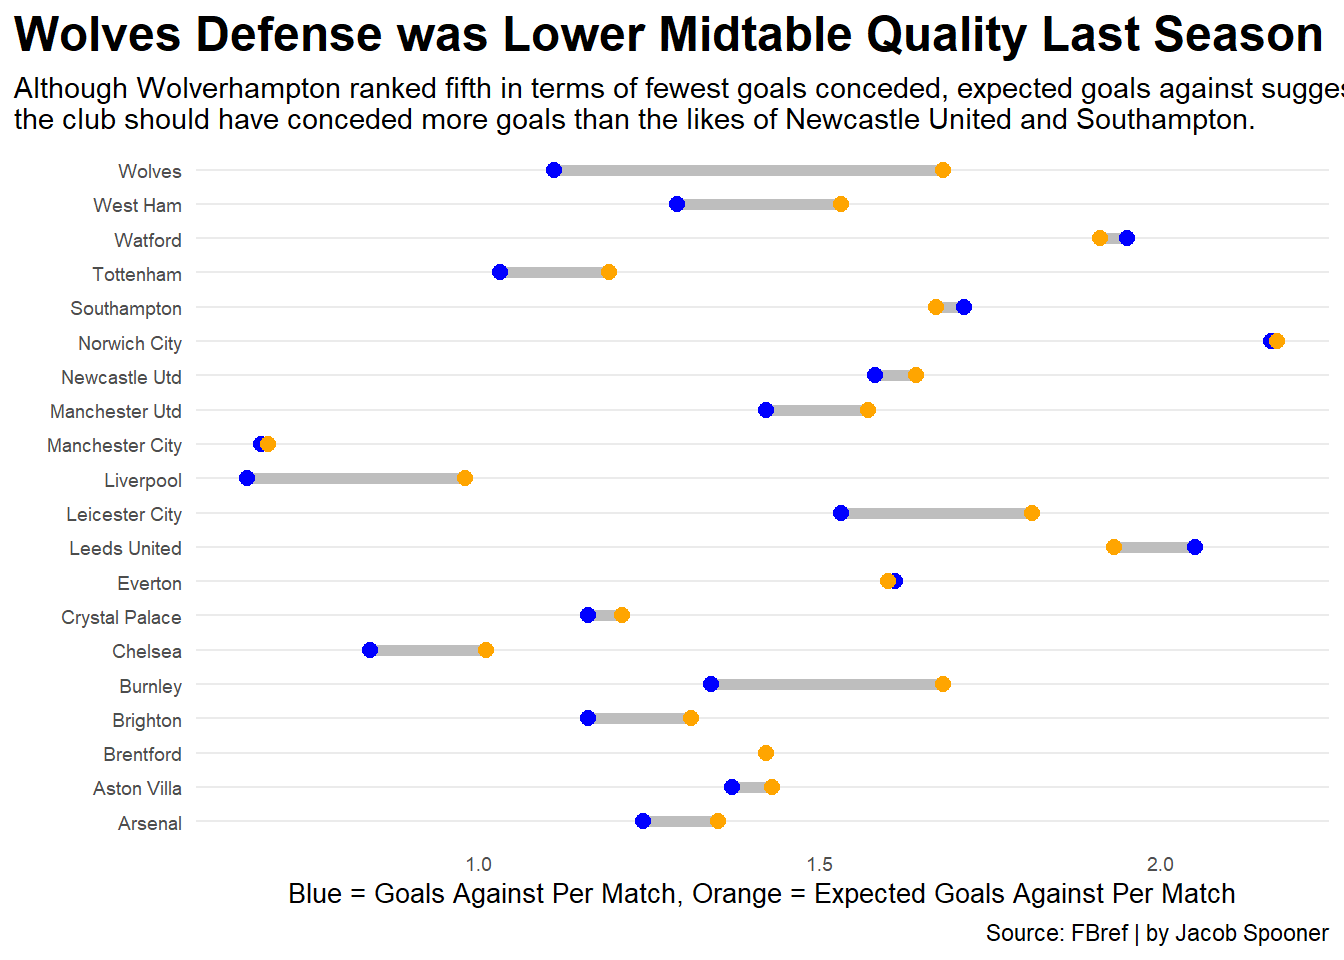
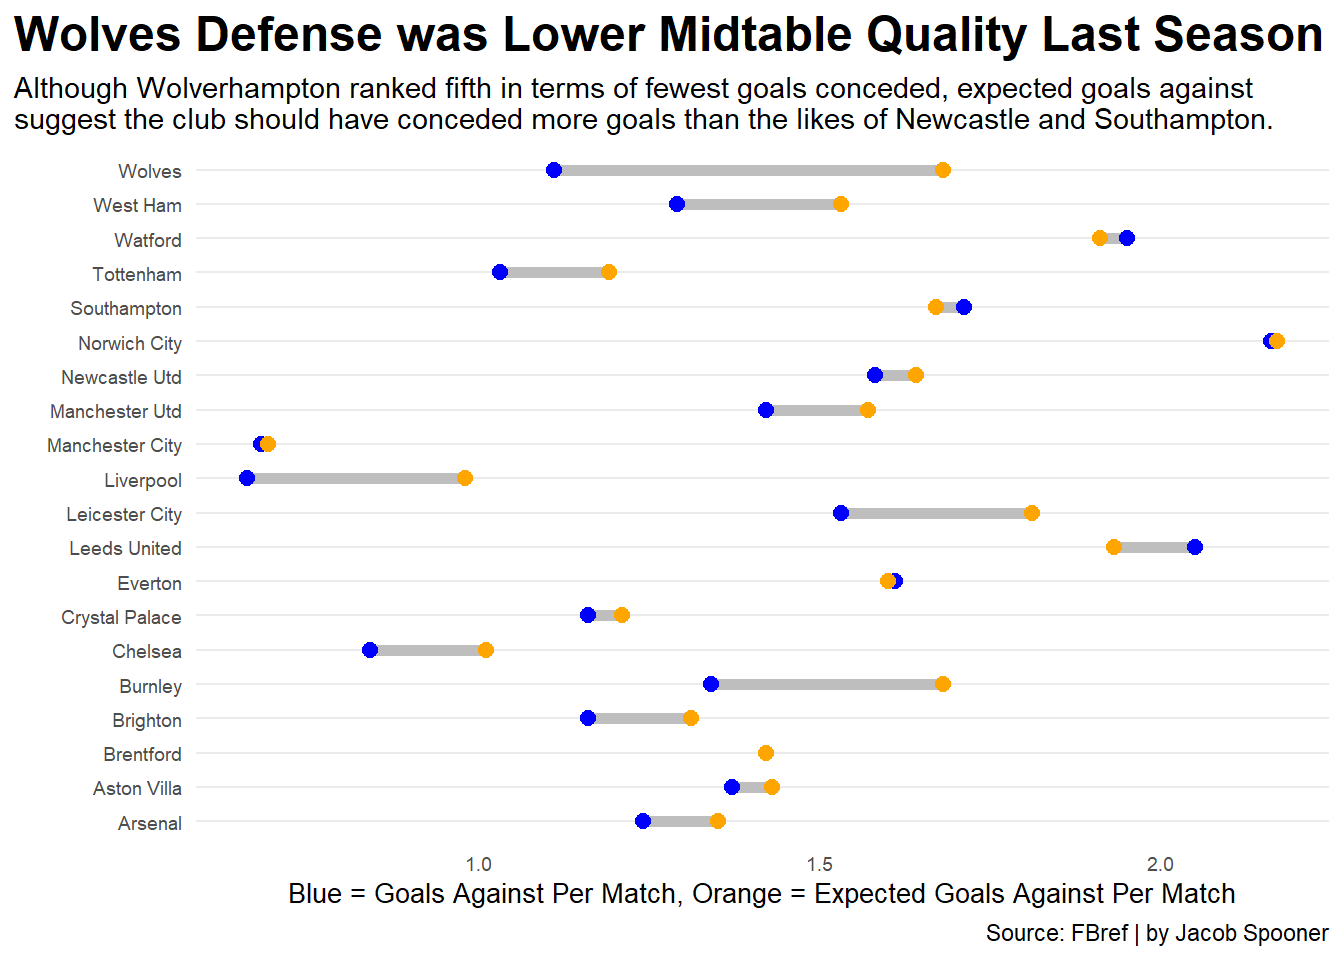
b

Changed region(s): [[0.0, 0.0625, 1.0, 0.1562]]

diff --git a/posts/wolves-recent-defensive-struggles/index.html b/posts/wolves-recent-defensive-struggles/index.html
@@ -210,7 +210,7 @@ code span.wa { color: #60a0b0; font-weight: bold; font-style: italic; } /* Warni
 <p>Following a rather average and disappointing first season under such ownership, Wolverhampton turned a corner in year two. The club finished top of the English Championship League (2nd division) and achieved promotion to the Premier League. Once there, Wolves took the league by storm. Successive seventh place finishes in 2018-19 and 2019-20 firmly established Wolves as a force to be reckoned with in the top flight. Unfortunately, that summer of 2020 would be as good as it got.</p>
 <p>Plagued by numerous injuries and inadequately replacing a couple of key players who moved on to bigger clubs, Wolves limped to a 13th place finish in 2020-21. A change in management followed, and although Wolves managed a 10th place finish last season, the lack of form during the season’s concluding months was among the worst in the league.</p>
 <p>Fast forward to the present day, and Wolverhampton Wanderers finds itself propping up the table 15 matches into the current campaign. The lack of options up top is quite astounding, and this team is allergic to scoring goals. This problem is not new, however, as even those sides that finished seventh struggled to score (although not nearly to the same extent as the team this season).</p>
-<p>Undoubtedly, shyness in front of goal is a problem that is crippling this team. But what about this side’s performance in terms of conceding goals? At its peak under Fosun’s ownership, Wolverhampton was a tough team to break down. Sadly, that defensive solidity seems to have vanished, which, in tandem with the goals scoring issues, has put this club in a far from ideal state. How does Wolves current team compare defensively to those of the past five seasons? And what can we expect from a defensive standpoint moving forward under the recently appointed Julen Lopetegui?</p>
+<p>Undoubtedly, shyness in front of goal is a problem that is crippling this team. But what about this side’s performance in terms of conceding goals? At its peak under Fosun’s ownership, Wolverhampton was a tough team to break down. Sadly, that defensive solidity seems to have vanished, which, in tandem with the goal scoring issues, has put this club in a far from ideal state. How does Wolves current team compare defensively to those of the past five seasons? And what can we expect from a defensive standpoint moving forward under the recently appointed Julen Lopetegui?</p>
 <p>One way of addressing the former of these questions is by examining not only goals against, but also expected goals against (number of goals a team should concede based on a mathematical model that takes various factors into account). Essentially, this allows one to draw conclusions about defensive performance based on the difference between a team’s goals against and expected against. So how do the last five Wolverhampton Wanderers seasons compare in terms of these metrics?</p>
 <div class="cell">
 <details>
@@ -268,12 +268,12 @@ code span.wa { color: #60a0b0; font-weight: bold; font-style: italic; } /* Warni
 </details>
 <div class="cell-output-display">
 
-<div id="pympdujcxc" style="overflow-x:auto;overflow-y:auto;width:auto;height:auto;">
+<div id="krzlfgeina" style="overflow-x:auto;overflow-y:auto;width:auto;height:auto;">
 <style>html {
   font-family: -apple-system, BlinkMacSystemFont, 'Segoe UI', Roboto, Oxygen, Ubuntu, Cantarell, 'Helvetica Neue', 'Fira Sans', 'Droid Sans', Arial, sans-serif;
 }
 
-:where(#pympdujcxc) .gt_table {
+:where(#krzlfgeina) .gt_table {
   display: table;
   border-collapse: collapse;
   margin-left: auto;
@@ -298,7 +298,7 @@ code span.wa { color: #60a0b0; font-weight: bold; font-style: italic; } /* Warni
   border-left-color: #D3D3D3;
 }
 
-:where(#pympdujcxc) .gt_heading {
+:where(#krzlfgeina) .gt_heading {
   background-color: #FFFFFF;
   text-align: center;
   border-bottom-color: #FFFFFF;
@@ -310,7 +310,7 @@ code span.wa { color: #60a0b0; font-weight: bold; font-style: italic; } /* Warni
   border-right-color: #D3D3D3;
 }
 
-:where(#pympdujcxc) .gt_title {
+:where(#krzlfgeina) .gt_title {
   color: #333333;
   font-size: 125%;
   font-weight: initial;
@@ -322,7 +322,7 @@ code span.wa { color: #60a0b0; font-weight: bold; font-style: italic; } /* Warni
   border-bottom-width: 0;
 }
 
-:where(#pympdujcxc) .gt_subtitle {
+:where(#krzlfgeina) .gt_subtitle {
   color: #333333;
   font-size: 85%;
   font-weight: initial;
@@ -334,13 +334,13 @@ code span.wa { color: #60a0b0; font-weight: bold; font-style: italic; } /* Warni
   border-top-width: 0;
 }
 
-:where(#pympdujcxc) .gt_bottom_border {
+:where(#krzlfgeina) .gt_bottom_border {
   border-bottom-style: solid;
   border-bottom-width: 2px;
   border-bottom-color: #D3D3D3;
 }
 
-:where(#pympdujcxc) .gt_col_headings {
+:where(#krzlfgeina) .gt_col_headings {
   border-top-style: solid;
   border-top-width: 2px;
   border-top-color: #D3D3D3;
@@ -355,7 +355,7 @@ code span.wa { color: #60a0b0; font-weight: bold; font-style: italic; } /* Warni
   border-right-color: #D3D3D3;
 }
 
-:where(#pympdujcxc) .gt_col_heading {
+:where(#krzlfgeina) .gt_col_heading {
   color: #333333;
   background-color: #FFFFFF;
   font-size: 100%;
@@ -375,7 +375,7 @@ code span.wa { color: #60a0b0; font-weight: bold; font-style: italic; } /* Warni
   overflow-x: hidden;
 }
 
-:where(#pympdujcxc) .gt_column_spanner_outer {
+:where(#krzlfgeina) .gt_column_spanner_outer {
   color: #333333;
   background-color: #FFFFFF;
   font-size: 100%;
@@ -387,15 +387,15 @@ code span.wa { color: #60a0b0; font-weight: bold; font-style: italic; } /* Warni
   padding-right: 4px;
 }
 
-:where(#pympdujcxc) .gt_column_spanner_outer:first-child {
+:where(#krzlfgeina) .gt_column_spanner_outer:first-child {
   padding-left: 0;
 }
 
-:where(#pympdujcxc) .gt_column_spanner_outer:last-child {
+:where(#krzlfgeina) .gt_column_spanner_outer:last-child {
   padding-right: 0;
 }
 
-:where(#pympdujcxc) .gt_column_spanner {
+:where(#krzlfgeina) .gt_column_spanner {
   border-bottom-style: solid;
   border-bottom-width: 2px;
   border-bottom-color: #D3D3D3;
@@ -407,7 +407,7 @@ code span.wa { color: #60a0b0; font-weight: bold; font-style: italic; } /* Warni
   width: 100%;
 }
 
-:where(#pympdujcxc) .gt_group_heading {
+:where(#krzlfgeina) .gt_group_heading {
   padding-top: 8px;
   padding-bottom: 8px;
   padding-left: 5px;
@@ -432,7 +432,7 @@ code span.wa { color: #60a0b0; font-weight: bold; font-style: italic; } /* Warni
   vertical-align: middle;
 }
 
-:where(#pympdujcxc) .gt_empty_group_heading {
+:where(#krzlfgeina) .gt_empty_group_heading {
   padding: 0.5px;
   color: #333333;
   background-color: #FFFFFF;
@@ -447,15 +447,15 @@ code span.wa { color: #60a0b0; font-weight: bold; font-style: italic; } /* Warni
   vertical-align: middle;
 }
 
-:where(#pympdujcxc) .gt_from_md > :first-child {
+:where(#krzlfgeina) .gt_from_md > :first-child {
   margin-top: 0;
 }
 
-:where(#pympdujcxc) .gt_from_md > :last-child {
+:where(#krzlfgeina) .gt_from_md > :last-child {
   margin-bottom: 0;
 }
 
-:where(#pympdujcxc) .gt_row {
+:where(#krzlfgeina) .gt_row {
   padding-top: 8px;
   padding-bottom: 8px;
   padding-left: 5px;
@@ -474,7 +474,7 @@ code span.wa { color: #60a0b0; font-weight: bold; font-style: italic; } /* Warni
   overflow-x: hidden;
 }
 
-:where(#pympdujcxc) .gt_stub {
+:where(#krzlfgeina) .gt_stub {
   color: #333333;
   background-color: #FFFFFF;
   font-size: 100%;
@@ -487,7 +487,7 @@ code span.wa { color: #60a0b0; font-weight: bold; font-style: italic; } /* Warni
   padding-right: 5px;
 }
 
-:where(#pympdujcxc) .gt_stub_row_group {
+:where(#krzlfgeina) .gt_stub_row_group {
   color: #333333;
   background-color: #FFFFFF;
   font-size: 100%;
@@ -501,11 +501,11 @@ code span.wa { color: #60a0b0; font-weight: bold; font-style: italic; } /* Warni
   vertical-align: top;
 }
 
-:where(#pympdujcxc) .gt_row_group_first td {
+:where(#krzlfgeina) .gt_row_group_first td {
   border-top-width: 2px;
 }
 
-:where(#pympdujcxc) .gt_summary_row {
+:where(#krzlfgeina) .gt_summary_row {
   color: #333333;
   background-color: #FFFFFF;
   text-transform: inherit;
@@ -515,16 +515,16 @@ code span.wa { color: #60a0b0; font-weight: bold; font-style: italic; } /* Warni
   padding-right: 5px;
 }
 
-:where(#pympdujcxc) .gt_first_summary_row {
+:where(#krzlfgeina) .gt_first_summary_row {
   border-top-style: solid;
   border-top-color: #D3D3D3;
 }
 
-:where(#pympdujcxc) .gt_first_summary_row.thick {
+:where(#krzlfgeina) .gt_first_summary_row.thick {
   border-top-width: 2px;
 }
 
-:where(#pympdujcxc) .gt_last_summary_row {
+:where(#krzlfgeina) .gt_last_summary_row {
   padding-top: 8px;
   padding-bottom: 8px;
   padding-left: 5px;
@@ -534,7 +534,7 @@ code span.wa { color: #60a0b0; font-weight: bold; font-style: italic; } /* Warni
   border-bottom-color: #D3D3D3;
 }
 
-:where(#pympdujcxc) .gt_grand_summary_row {
+:where(#krzlfgeina) .gt_grand_summary_row {
   color: #333333;
   background-color: #FFFFFF;
   text-transform: inherit;
@@ -544,7 +544,7 @@ code span.wa { color: #60a0b0; font-weight: bold; font-style: italic; } /* Warni
   padding-right: 5px;
 }
 
-:where(#pympdujcxc) .gt_first_grand_summary_row {
+:where(#krzlfgeina) .gt_first_grand_summary_row {
   padding-top: 8px;
   padding-bottom: 8px;
   padding-left: 5px;
@@ -554,11 +554,11 @@ code span.wa { color: #60a0b0; font-weight: bold; font-style: italic; } /* Warni
   border-top-color: #D3D3D3;
 }
 
-:where(#pympdujcxc) .gt_striped {
+:where(#krzlfgeina) .gt_striped {
   background-color: rgba(128, 128, 128, 0.05);
 }
 
-:where(#pympdujcxc) .gt_table_body {
+:where(#krzlfgeina) .gt_table_body {
   border-top-style: solid;
   border-top-width: 2px;
   border-top-color: #D3D3D3;
@@ -567,7 +567,7 @@ code span.wa { color: #60a0b0; font-weight: bold; font-style: italic; } /* Warni
   border-bottom-color: #D3D3D3;
 }
 
-:where(#pympdujcxc) .gt_footnotes {
+:where(#krzlfgeina) .gt_footnotes {
   color: #333333;
   background-color: #FFFFFF;
   border-bottom-style: none;
@@ -581,7 +581,7 @@ code span.wa { color: #60a0b0; font-weight: bold; font-style: italic; } /* Warni
   border-right-color: #D3D3D3;
 }
 
-:where(#pympdujcxc) .gt_footnote {
+:where(#krzlfgeina) .gt_footnote {
   margin: 0px;
   font-size: 90%;
   padding-left: 4px;
@@ -590,7 +590,7 @@ code span.wa { color: #60a0b0; font-weight: bold; font-style: italic; } /* Warni
   padding-right: 5px;
 }
 
-:where(#pympdujcxc) .gt_sourcenotes {
+:where(#krzlfgeina) .gt_sourcenotes {
   color: #333333;
   background-color: #FFFFFF;
   border-bottom-style: none;
@@ -604,7 +604,7 @@ code span.wa { color: #60a0b0; font-weight: bold; font-style: italic; } /* Warni
   border-right-color: #D3D3D3;
 }
 
-:where(#pympdujcxc) .gt_sourcenote {
+:where(#krzlfgeina) .gt_sourcenote {
   font-size: 90%;
   padding-top: 4px;
   padding-bottom: 4px;
@@ -612,64 +612,64 @@ code span.wa { color: #60a0b0; font-weight: bold; font-style: italic; } /* Warni
   padding-right: 5px;
 }
 
-:where(#pympdujcxc) .gt_left {
+:where(#krzlfgeina) .gt_left {
   text-align: left;
 }
 
-:where(#pympdujcxc) .gt_center {
+:where(#krzlfgeina) .gt_center {
   text-align: center;
 }
 
-:where(#pympdujcxc) .gt_right {
+:where(#krzlfgeina) .gt_right {
   text-align: right;
   font-variant-numeric: tabular-nums;
 }
 
-:where(#pympdujcxc) .gt_font_normal {
+:where(#krzlfgeina) .gt_font_normal {
   font-weight: normal;
 }
 
-:where(#pympdujcxc) .gt_font_bold {
+:where(#krzlfgeina) .gt_font_bold {
   font-weight: bold;
 }
 
-:where(#pympdujcxc) .gt_font_italic {
+:where(#krzlfgeina) .gt_font_italic {
   font-style: italic;
 }
 
-:where(#pympdujcxc) .gt_super {
+:where(#krzlfgeina) .gt_super {
   font-size: 65%;
 }
 
-:where(#pympdujcxc) .gt_footnote_marks {
+:where(#krzlfgeina) .gt_footnote_marks {
   font-style: italic;
   font-weight: normal;
   font-size: 75%;
   vertical-align: 0.4em;
 }
 
-:where(#pympdujcxc) .gt_asterisk {
+:where(#krzlfgeina) .gt_asterisk {
   font-size: 100%;
   vertical-align: 0;
 }
 
-:where(#pympdujcxc) .gt_indent_1 {
+:where(#krzlfgeina) .gt_indent_1 {
   text-indent: 5px;
 }
 
-:where(#pympdujcxc) .gt_indent_2 {
+:where(#krzlfgeina) .gt_indent_2 {
   text-indent: 10px;
 }
 
-:where(#pympdujcxc) .gt_indent_3 {
+:where(#krzlfgeina) .gt_indent_3 {
   text-indent: 15px;
 }
 
-:where(#pympdujcxc) .gt_indent_4 {
+:where(#krzlfgeina) .gt_indent_4 {
   text-indent: 20px;
 }
 
-:where(#pympdujcxc) .gt_indent_5 {
+:where(#krzlfgeina) .gt_indent_5 {
   text-indent: 25px;
 }
 </style>
@@ -742,8 +742,8 @@ code span.wa { color: #60a0b0; font-weight: bold; font-style: italic; } /* Warni
 <span id="cb2-14"><a href="#cb2-14" aria-hidden="true" tabindex="-1"></a>  <span class="at">x=</span><span class="st">"Blue = Goals Against Per Match, Orange = Expected Goals Against Per Match"</span>,</span>
 <span id="cb2-15"><a href="#cb2-15" aria-hidden="true" tabindex="-1"></a>  <span class="at">y=</span><span class="st">""</span>,</span>
 <span id="cb2-16"><a href="#cb2-16" aria-hidden="true" tabindex="-1"></a>  <span class="at">title=</span><span class="st">"Wolves Defense was Lower Midtable Quality Last Season"</span>, </span>
-<span id="cb2-17"><a href="#cb2-17" aria-hidden="true" tabindex="-1"></a>     <span class="at">subtitle=</span><span class="st">"Although Wolverhampton ranked fifth in terms of fewest goals conceded, expected goals against suggest</span></span>
-<span id="cb2-18"><a href="#cb2-18" aria-hidden="true" tabindex="-1"></a><span class="st">the club should have conceded more goals than the likes of Newcastle United and Southampton."</span>,</span>
+<span id="cb2-17"><a href="#cb2-17" aria-hidden="true" tabindex="-1"></a>     <span class="at">subtitle=</span><span class="st">"Although Wolverhampton ranked fifth in terms of fewest goals conceded, expected goals against</span></span>
+<span id="cb2-18"><a href="#cb2-18" aria-hidden="true" tabindex="-1"></a><span class="st">suggest the club should have conceded more goals than the likes of Newcastle and Southampton."</span>,</span>
 <span id="cb2-19"><a href="#cb2-19" aria-hidden="true" tabindex="-1"></a>  <span class="at">caption=</span><span class="st">"Source: FBref | by Jacob Spooner"</span></span>
 <span id="cb2-20"><a href="#cb2-20" aria-hidden="true" tabindex="-1"></a>     ) <span class="sc">+</span></span>
 <span id="cb2-21"><a href="#cb2-21" aria-hidden="true" tabindex="-1"></a>  <span class="fu">theme_minimal</span> () <span class="sc">+</span></span>

diff --git a/index.html b/index.html
@@ -164,7 +164,7 @@ ul.task-list li input[type="checkbox"] {
 
 <div class="quarto-listing quarto-listing-container-default" id="listing-listing">
 <div class="list quarto-listing-default">
-<div class="quarto-post image-right" data-index="0" data-categories="wolves,code,analysis" data-listing-date-sort="1670133600000" data-listing-file-modified-sort="1670206887309" data-listing-reading-time-sort="9.865">
+<div class="quarto-post image-right" data-index="0" data-categories="wolves,code,analysis" data-listing-date-sort="1670133600000" data-listing-file-modified-sort="1670208027972" data-listing-reading-time-sort="9.865">
 <div class="thumbnail">
 <p><a href="./posts/wolves-recent-defensive-struggles/index.html"> <img src="./posts/wolves-recent-defensive-struggles/Capture2.JPG" class="thumnail-image"> </a></p>
 </div>
